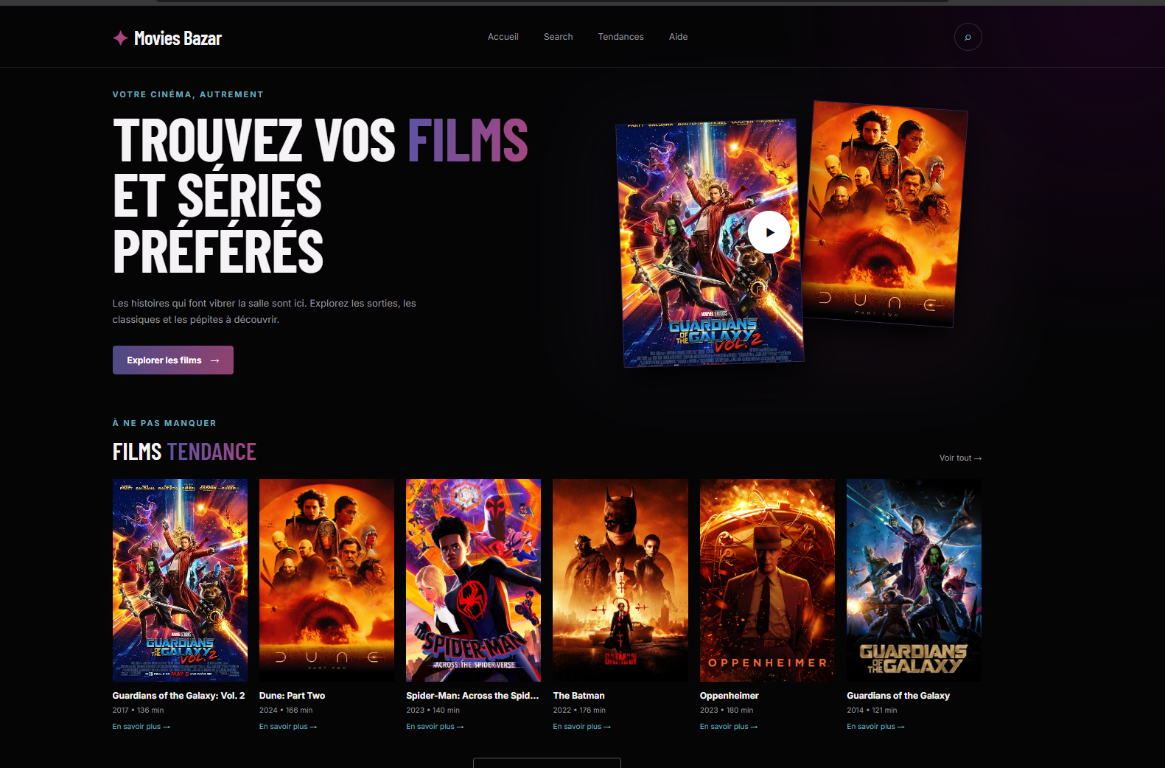
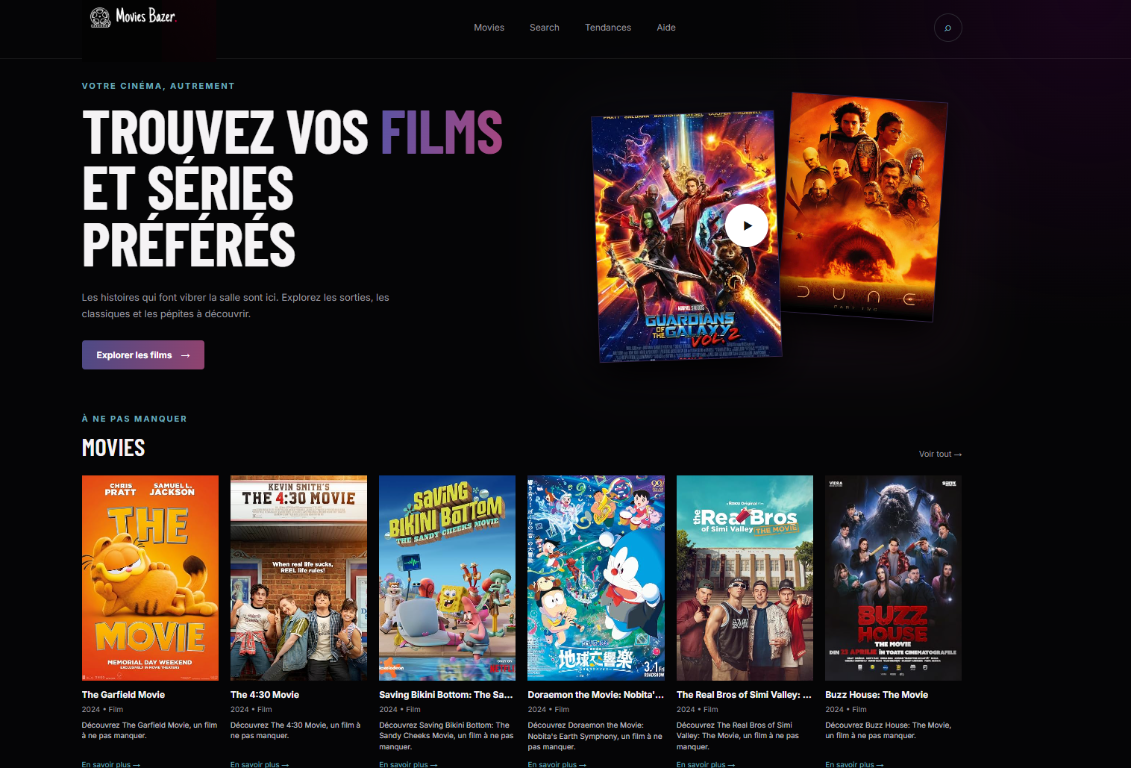
fixed

diff --git a/js/app.js b/js/app.js
@@ -15,6 +15,8 @@ function movieLink(movie) {
 
 function createMovieCard(movie) {
     let poster = movie.Poster;
+    const description = movie.Plot
+        || `Découvrez ${movie.Title}, un film à ne pas manquer.`;
 
     if (!poster || poster === "N/A") {
         poster = noPoster;
@@ -23,7 +25,12 @@ function createMovieCard(movie) {
     return `
         <article class="movie-card">
             <a class="movie-card__poster" href="${movieLink(movie)}">
-                <img loading="lazy" src="${escapeText(poster)}" alt="Poster de ${escapeText(movie.Title)}">
+                <img
+                    loading="lazy"
+                    src="${escapeText(poster)}"
+                    alt="Poster de ${escapeText(movie.Title)}"
+                    onerror="this.closest('.movie-card').remove()"
+                >
             </a>
             <h3 title="${escapeText(movie.Title)}">${escapeText(movie.Title)}</h3>
             <div class="movie-card__meta">
@@ -31,6 +38,7 @@ function createMovieCard(movie) {
                 <span aria-hidden="true">•</span>
                 ${escapeText(movie.Runtime || "Film")}
             </div>
+            <p class="movie-card__plot">${escapeText(description)}</p>
             <a class="movie-card__link" href="${movieLink(movie)}">En savoir plus →</a>
         </article>
     `;
@@ -47,10 +55,10 @@ function createHeader() {
         <header class="site-header">
             <div class="container site-header__inner">
                 <a class="logo" href="index.html">
-                    <span class="logo-mark">✦</span>Movies Bazar
+                    <img src="img/logo.png" alt="Movies Bazar">
                 </a>
                 <nav class="nav" aria-label="Navigation principale">
-                    <a href="index.html">Accueil</a>
+                    <a href="index.html">Movies</a>
                     <a href="search.html">Search</a>
                     <a href="tendance.html">Tendances</a>
                     <a href="aide.html">Aide</a>

diff --git a/index.html b/index.html
@@ -28,7 +28,7 @@
             </div>
         </section>
         <section class="container section" aria-labelledby="trending-title">
-            <div class="section-heading"><div><p class="eyebrow">À ne pas manquer</p><h2 id="trending-title">Films <span>tendance</span></h2></div><a href="tendance.html">Voir tout <span aria-hidden="true">→</span></a></div>
+            <div class="section-heading"><div><p class="eyebrow">À ne pas manquer</p><h2 id="trending-title">Movies</h2></div><a href="tendance.html">Voir tout <span aria-hidden="true">→</span></a></div>
             <div id="trending-grid" class="movie-grid movie-grid--home"></div>
             <button id="load-more-home" class="button button--outline load-more" type="button">Charger plus de films 2024</button>
         </section>

diff --git a/css/style.css b/css/style.css
@@ -64,14 +64,12 @@ button {
     gap:30px
 }
 .logo {
-    font-family:"Barlow Condensed",sans-serif;
-    font-size:27px;
-    font-weight:600;
-    letter-spacing:-.5px
+    display:flex;
+    align-items:center
 }
-.logo-mark {
-    color:var(--pink);
-    margin-right:8px
+.logo img {
+    width:180px;
+    height:auto
 }
 .nav {
     display:flex;
@@ -274,6 +272,17 @@ button {
 .movie-card__meta {
     color:var(--muted);
     font-size:10px
+}
+.movie-card__plot {
+    color:#c2c0c8;
+    font-size:10px;
+    line-height:1.45;
+    display:-webkit-box;
+    -webkit-box-orient:vertical;
+    -webkit-line-clamp:3;
+    overflow:hidden;
+    margin:8px 0 0;
+    min-height:44px
 }
 .movie-card__link {
     display:inline-block;

diff --git a/js/home.js b/js/home.js
@@ -17,11 +17,15 @@ async function showHomeMovies() {
     }
 
     // IMPORTANT : envoyer l'objet OMDb tel quel
-    data.Search.forEach(movie => {
+    const moviesWithPosters = data.Search.filter(movie => {
+        return movie.Poster && movie.Poster !== "N/A";
+    });
+
+    moviesWithPosters.forEach(movie => {
         homeGrid.innerHTML += window.movieCard(movie);
     });
 
-    if (data.Search.length < 10) {
+    if (data.Search.length < 10 || moviesWithPosters.length === 0) {
         homeButton.hidden = true;
     }
 }

diff --git a/js/movie.js b/js/movie.js
@@ -2,7 +2,6 @@ const movieDetails = document.querySelector("#movie-details");
 const urlParams = new URLSearchParams(window.location.search);
 const movieId = urlParams.get("id");
 
-
 function showMovie(movie) {
     document.title = `Movies Bazar | ${movie.Title}`;
 

diff --git a/README.md b/README.md
@@ -82,6 +82,7 @@ cinemaa/
 │   └── trending.js     # Logique de la page Tendances
 └── img/
     ├── website.png     # Aperçu du site
+    ├── logo.png        # Logo du site
     ├── Group.svg       # Ressource graphique
     ├── Vector.svg      # Ressource graphique
     └── yyyy.svg        # Ressource graphique
